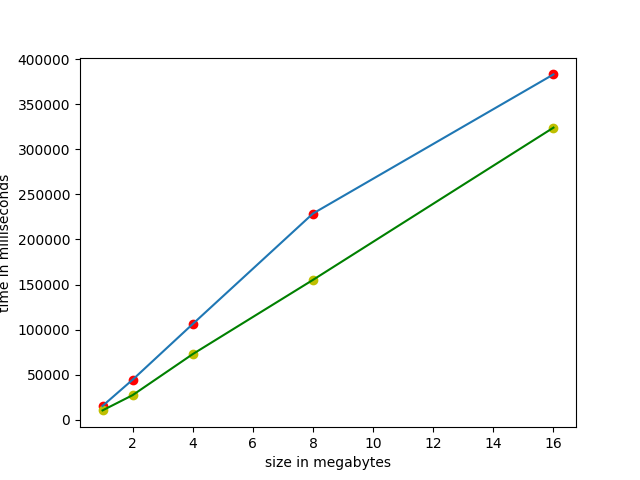
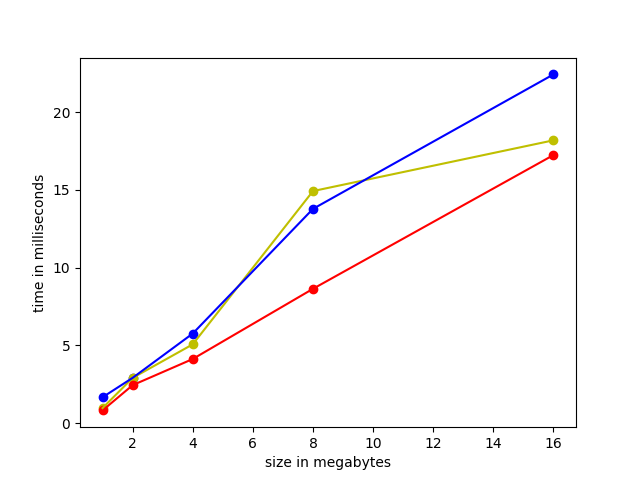
Lab2 timing fixed, number of threads set as cmd argument

diff --git a/Lab1/Lab1/generate_plot.py b/Lab1/Lab1/generate_plot.py
@@ -1,35 +1,148 @@
 import matplotlib.pyplot as plt
 
-timeInMilliseconds = [
-    15328,
-    44406,
-    106218,
-    228812,
-    383203
+# 1 thread results:
+# PS C:\Users\v-seirin\Desktop\Hybrid\Lab1\Lab1> python generate_data.py 1 2525 2626
+# 308
+# 0.4613626 0.52603047 0.46309684
+# 308
+# 0.46136260 0.52603054 0.46309674
+# 1043812 bytes in 1.668500000 milliseconds
+# PS C:\Users\v-seirin\Desktop\Hybrid\Lab1\Lab1> python generate_data.py 2 2525 2626
+# 436
+# 0.5056086 0.50566764 0.51554511
+# 436
+# 0.50560844 0.50566781 0.51554531
+# 2091492 bytes in 2.915200000 milliseconds
+# PS C:\Users\v-seirin\Desktop\Hybrid\Lab1\Lab1> python generate_data.py 4 2525 2626
+# 617
+# 0.52983585 0.49824401 0.50085811
+# 617
+# 0.52983588 0.49824405 0.50085819
+# 4188196 bytes in 5.765700000 milliseconds
+# PS C:\Users\v-seirin\Desktop\Hybrid\Lab1\Lab1> python generate_data.py 8 2525 2626
+# 873
+# 0.49465644 0.47979742 0.49815887
+# 873
+# 0.49465638 0.47979701 0.49815899
+# 8384292 bytes in 13.783100001 milliseconds
+# PS C:\Users\v-seirin\Desktop\Hybrid\Lab1\Lab1> python generate_data.py 16 2525 2626
+# 1234
+# 0.5113332 0.50899978 0.50178553
+# 1234
+# 0.51133347 0.50899976 0.50178528
+# 16751550 bytes in 22.432100000 milliseconds
+
+# 2 threads results:
+# PS C:\Users\v-seirin\Desktop\Hybrid\Lab1\Lab1> python generate_data.py 1 2525 2626
+# 308
+# 0.47594819 0.52039959 0.5158941
+# 308
+# 0.47594810 0.52039951 0.51589411
+# 1043812 bytes in 0.972800000 milliseconds
+# PS C:\Users\v-seirin\Desktop\Hybrid\Lab1\Lab1> python generate_data.py 2 2525 2626
+# 436
+# 0.50585847 0.51674108 0.48966757
+# 436
+# 0.50585866 0.51674098 0.48966789
+# 2091492 bytes in 2.911700000 milliseconds
+# PS C:\Users\v-seirin\Desktop\Hybrid\Lab1\Lab1> python generate_data.py 4 2525 2626
+# 617
+# 0.50412305 0.51392987 0.50484703
+# 617
+# 0.50412309 0.51392978 0.50484705
+# 4188196 bytes in 5.071800000 milliseconds
+# PS C:\Users\v-seirin\Desktop\Hybrid\Lab1\Lab1> python generate_data.py 8 2525 2626
+# 873
+# 0.50001795 0.49961894 0.48665471
+# 873
+# 0.50001788 0.49961916 0.48665482
+# 8384292 bytes in 14.927800000 milliseconds
+# PS C:\Users\v-seirin\Desktop\Hybrid\Lab1\Lab1> python generate_data.py 16 2525 2626
+# 1234
+# 0.51029687 0.49435182 0.49386062
+# 1234
+# 0.51029700 0.49435151 0.49386057
+# 16751550 bytes in 18.192900000 milliseconds
+
+# 4 threads results:
+# PS C:\Users\v-seirin\Desktop\Hybrid\Lab1\Lab1> python generate_data.py 1 2525 2626 
+# 308
+# 0.53922382 0.50925454 0.49865183
+# 308
+# 0.53922379 0.50925469 0.49865180
+# 1043812 bytes in 0.823400000 milliseconds
+# PS C:\Users\v-seirin\Desktop\Hybrid\Lab1\Lab1> python generate_data.py 2 2525 2626
+# 436
+# 0.49615192 0.52400826 0.4994548
+# 436
+# 0.49615213 0.52400815 0.49945468
+# 2091492 bytes in 2.445100000 milliseconds
+# PS C:\Users\v-seirin\Desktop\Hybrid\Lab1\Lab1> python generate_data.py 4 2525 2626
+# 617
+# 0.49601666 0.49591181 0.48039506
+# 617
+# 0.49601668 0.49591187 0.48039526
+# 4188196 bytes in 4.128100000 milliseconds
+# PS C:\Users\v-seirin\Desktop\Hybrid\Lab1\Lab1> python generate_data.py 8 2525 2626
+# 873
+# 0.50674862 0.50571937 0.49971588
+# 873
+# 0.50674838 0.50571954 0.49971589
+# 8384292 bytes in 8.642700000 milliseconds
+# PS C:\Users\v-seirin\Desktop\Hybrid\Lab1\Lab1> python generate_data.py 16 2525 2626
+# 1234
+# 0.49573987 0.4961339 0.4941281
+# 1197
+# 0.49573916 0.49613386 0.49412847
+# 16241710 bytes in 17.244100000 milliseconds
+
+
+def getAverageDifference(arr0, arr1):
+    assert len(arr0) == len(arr1)
+    return sum([(float(t[0] - t[1]) / t[0]) * 100 for t in zip(arr0, arr1)]) / len(arr0)
+
+
+oneThreadTime = [
+    1.668500000,
+    2.915200000,
+    5.765700000,
+    13.783100001,
+    22.432100000
 ]
 
-paralleledTimeInMilliseconds = [
-    10359,
-    27281,
-    72812,
-    155187,
-    324125
+twoThreadsTime = [
+    0.972800000,
+    2.911700000,
+    5.071800000,
+    14.927800000,
+    18.192900000
 ]
 
-avg = sum([(float(t[0] - t[1]) / t[0]) * 100 for t in zip(timeInMilliseconds, paralleledTimeInMilliseconds)]) / len(timeInMilliseconds)
-print(avg)
+fourThreadsTime = [
+    0.823400000,
+    2.445100000,
+    4.128100000,
+    8.642700000,
+    17.244100000
+]
 
-sizesInBytes = [2**i for i in range(len(timeInMilliseconds))]
+sizesInBytes = [2**i for i in range(5)]
 
-assert len(sizesInBytes) == len(timeInMilliseconds)
-assert len(sizesInBytes) == len(paralleledTimeInMilliseconds)
+avg_one_two = getAverageDifference(oneThreadTime, twoThreadsTime)
+print(avg_one_two)
+avg_one_four = getAverageDifference(oneThreadTime, fourThreadsTime)
+print(avg_one_four)
+avg_two_four = getAverageDifference(twoThreadsTime, fourThreadsTime)
+print(avg_two_four)
 
 plt.xlabel('size in megabytes')
 plt.ylabel('time in milliseconds')
 
-ax = plt.plot(sizesInBytes, timeInMilliseconds, 'ro')
-plt.plot(sizesInBytes, paralleledTimeInMilliseconds, 'yo')
-plt.plot(sizesInBytes, paralleledTimeInMilliseconds, 'g')
-plt.plot(sizesInBytes, timeInMilliseconds)
+plt.plot(sizesInBytes, oneThreadTime, 'bo')
+plt.plot(sizesInBytes, twoThreadsTime, 'yo')
+plt.plot(sizesInBytes, fourThreadsTime, 'ro')
+plt.plot(sizesInBytes, fourThreadsTime, 'r')
+plt.plot(sizesInBytes, twoThreadsTime, 'y')
+plt.plot(sizesInBytes, oneThreadTime, 'b')
 
 plt.show()

diff --git a/Lab1/Lab1/main.cpp b/Lab1/Lab1/main.cpp
@@ -8,29 +8,29 @@
 #include <string.h>
 #include <time.h>
 #include <vector>
+#include <omp.h>
 #define MAX_SIZE 12
 
 int process_stream(int input_port, int output_port);
 
 int main(int argc, char* argv[])
 {
-    if (argc < 3)
+    if (argc < 4)
     {
-        printf("Need input and output streams ports as parameters!");
+        printf("Need input, output streams ports and number of threads as parameters!");
         return -1;
     }
 
     int input_port = atoi(argv[1]);
     int output_port = atoi(argv[2]);
+    int num_threads = atoi(argv[3]);
+
+    omp_set_num_threads(num_threads);
 
     for (;;) // forever and ever
         process_stream(input_port, output_port);
 
     return 0;
-}
-
-double getMilliseconds() {
-    return 1000.0 * clock() / CLOCKS_PER_SEC;
 }
 
 void trim_str(char* str)
@@ -101,6 +101,8 @@ float get_line_avg(std::vector<float> line)
 {
     int count = line.size();
     float sum = 0;
+
+    //printf("%d\n", omp_get_thread_num());
     
     for (int i = 0; i < count; i++)
         sum += line[i] / count;
@@ -178,21 +180,21 @@ int process_stream(int input_port, int output_port)
 {
     int* connection = listen_to_port(input_port);
 
-    double start = getMilliseconds();
-
     std::vector<std::vector<float>> matrix;
 
     int stream_size = get_stream_matrix(connection[0], matrix);
 
     close_connection(connection[0], connection[1]);
 
+    double start = omp_get_wtime();
+
     std::vector<char> result = get_avg_vector(matrix);
 
-    double end = getMilliseconds();
-    double execution_time_in_seconds = (double)(end - start);
+    double end = omp_get_wtime();
+    double execution_time_in_seconds = (double)(end - start) * 1000;
 
     char* buffer = new char[256];
-    sprintf(buffer, "%d bytes in %.3f milliseconds\n", stream_size, execution_time_in_seconds);
+    sprintf(buffer, "%d bytes in %.9f milliseconds\n", stream_size, execution_time_in_seconds);
 
     result.insert(result.end(), buffer, buffer + strlen(buffer));
     result.push_back(NULL);
